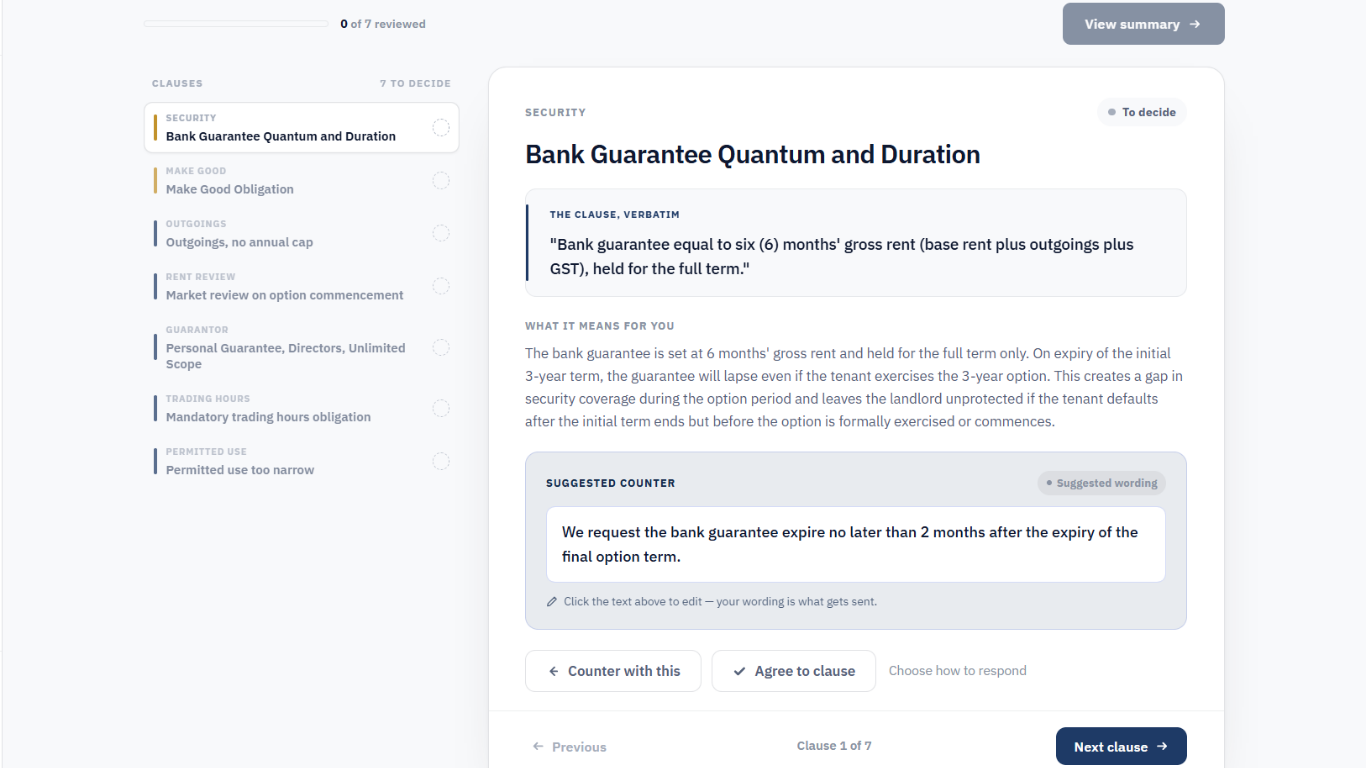
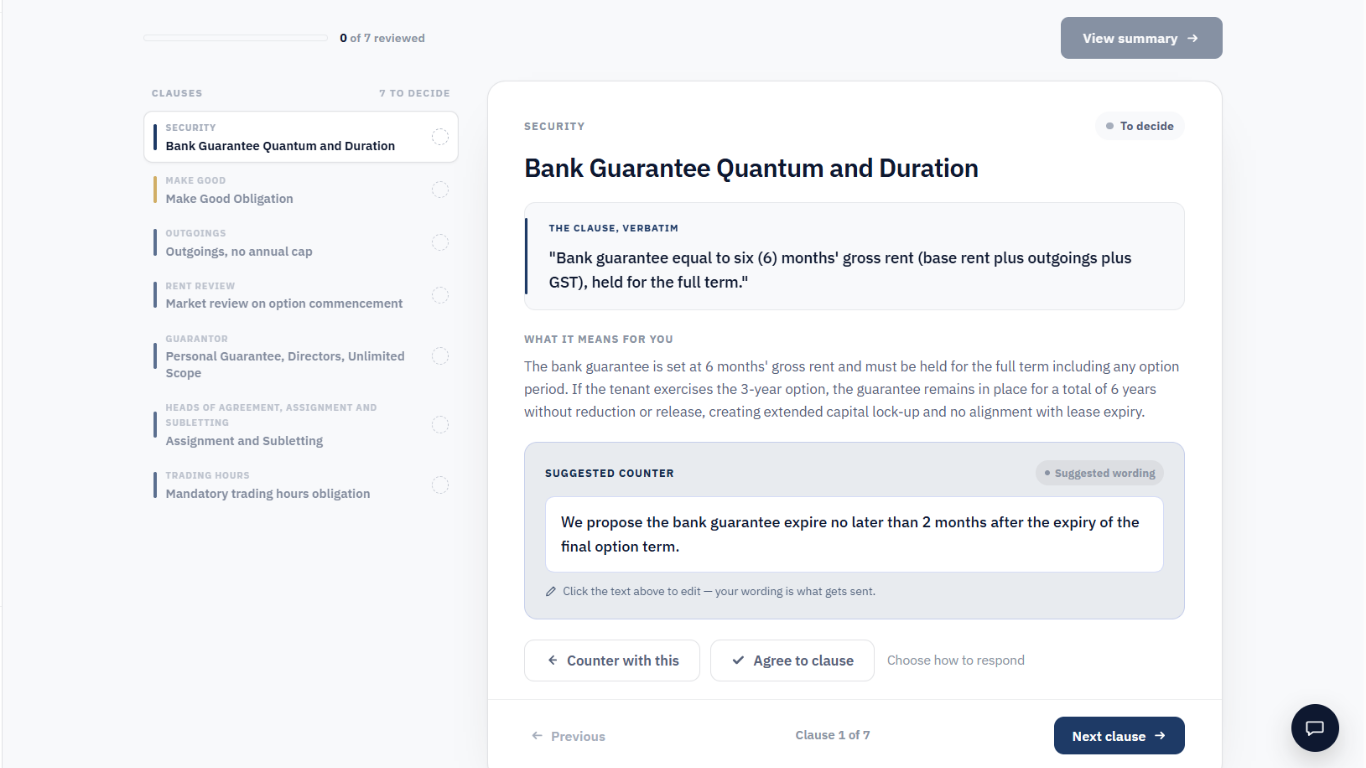
fix: plain dot-point summary format; update stage-03 screenshot

diff --git a/src/pages/NegotiationDetail.jsx b/src/pages/NegotiationDetail.jsx
@@ -319,21 +319,23 @@ export default function NegotiationDetail() {
     const prop = ws?.name || 'the property'
     const tenant = ws?.client_name ? ` (${ws.client_name})` : ''
     const lines = [`Lease review — ${prop}${tenant}`, '']
-    lines.push('AGREED')
-    if (agreedClauses.length) agreedClauses.forEach(c => lines.push(`• ${c.location || c.name} — ${c.name}.`))
-    else lines.push('• None yet.')
+    lines.push('AGREED AS DRAFTED:')
+    if (agreedClauses.length) {
+      agreedClauses.forEach(c => {
+        const label = c.location ? `${c.location} — ${c.name}` : c.name
+        lines.push(`• ${label}`)
+      })
+    } else {
+      lines.push('• None yet.')
+    }
     lines.push('')
-    lines.push('NOT AGREED — PROPOSED CHANGES')
+    lines.push('PROPOSED CHANGES:')
     if (counteringClauses.length) {
       counteringClauses.forEach(c => {
-        lines.push(`• ${c.location || c.name} — ${c.name}.`)
         const ct = getCounterText(c)
-        if (ct) {
-          const normalized = ct.replace(/\\n/g, '\n').replace(/\*\*/g, '').trim()
-          const indented = normalized.split('\n').map((l, i) => i === 0 ? `  Proposed: ${l}` : `  ${l}`).join('\n')
-          lines.push(indented)
-        }
-        lines.push('')
+        const normalized = ct ? ct.replace(/\\n/g, ' ').replace(/\*\*/g, '').replace(/\n+/g, ' ').trim() : ''
+        const label = c.location ? `${c.location} — ${c.name}` : c.name
+        lines.push(`• ${label}${normalized ? `: ${normalized}` : ''}`)
       })
     } else {
       lines.push('• None yet.')